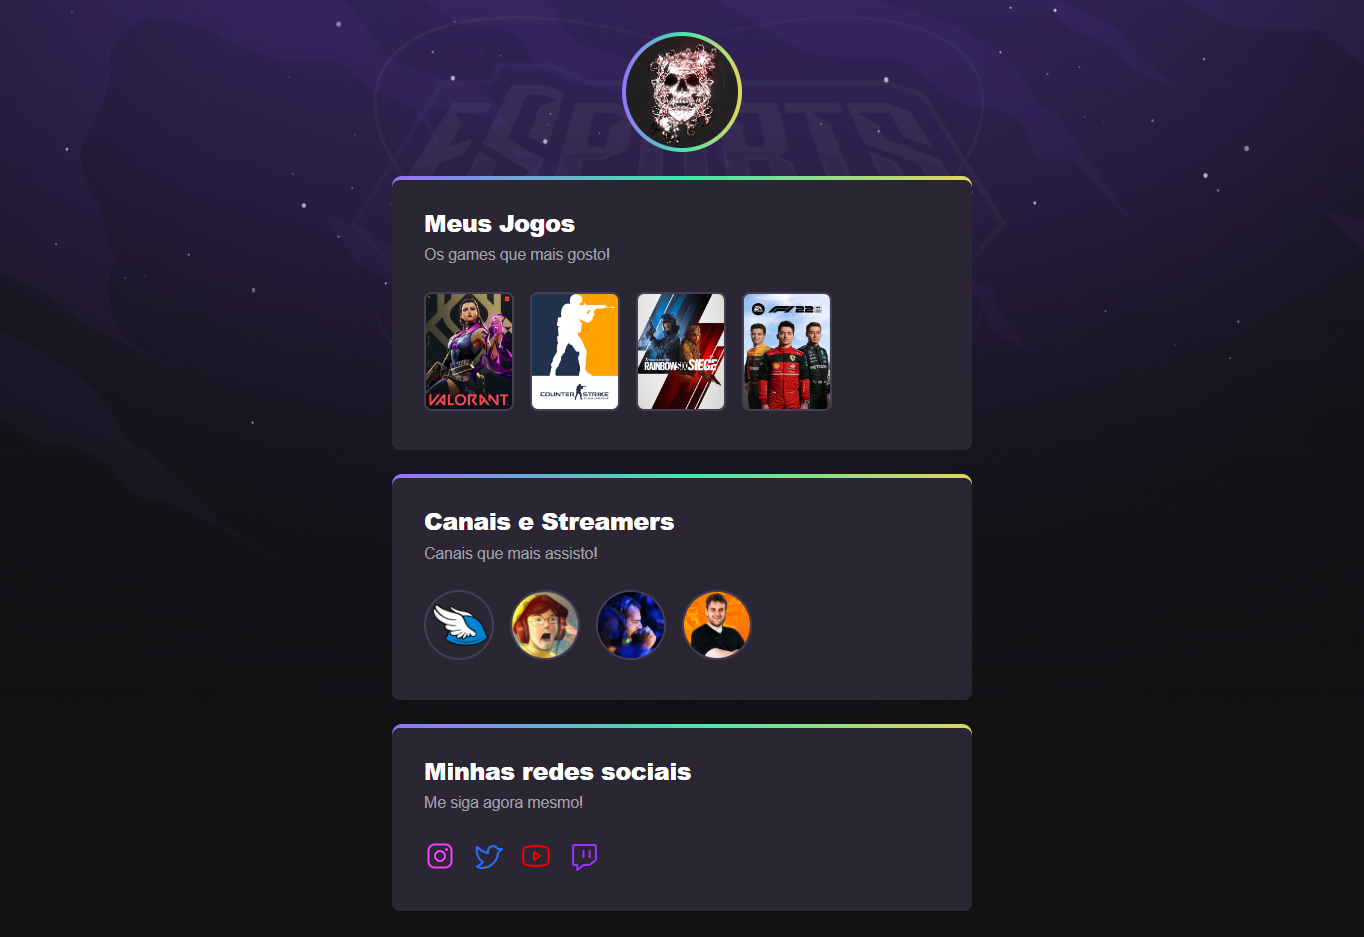
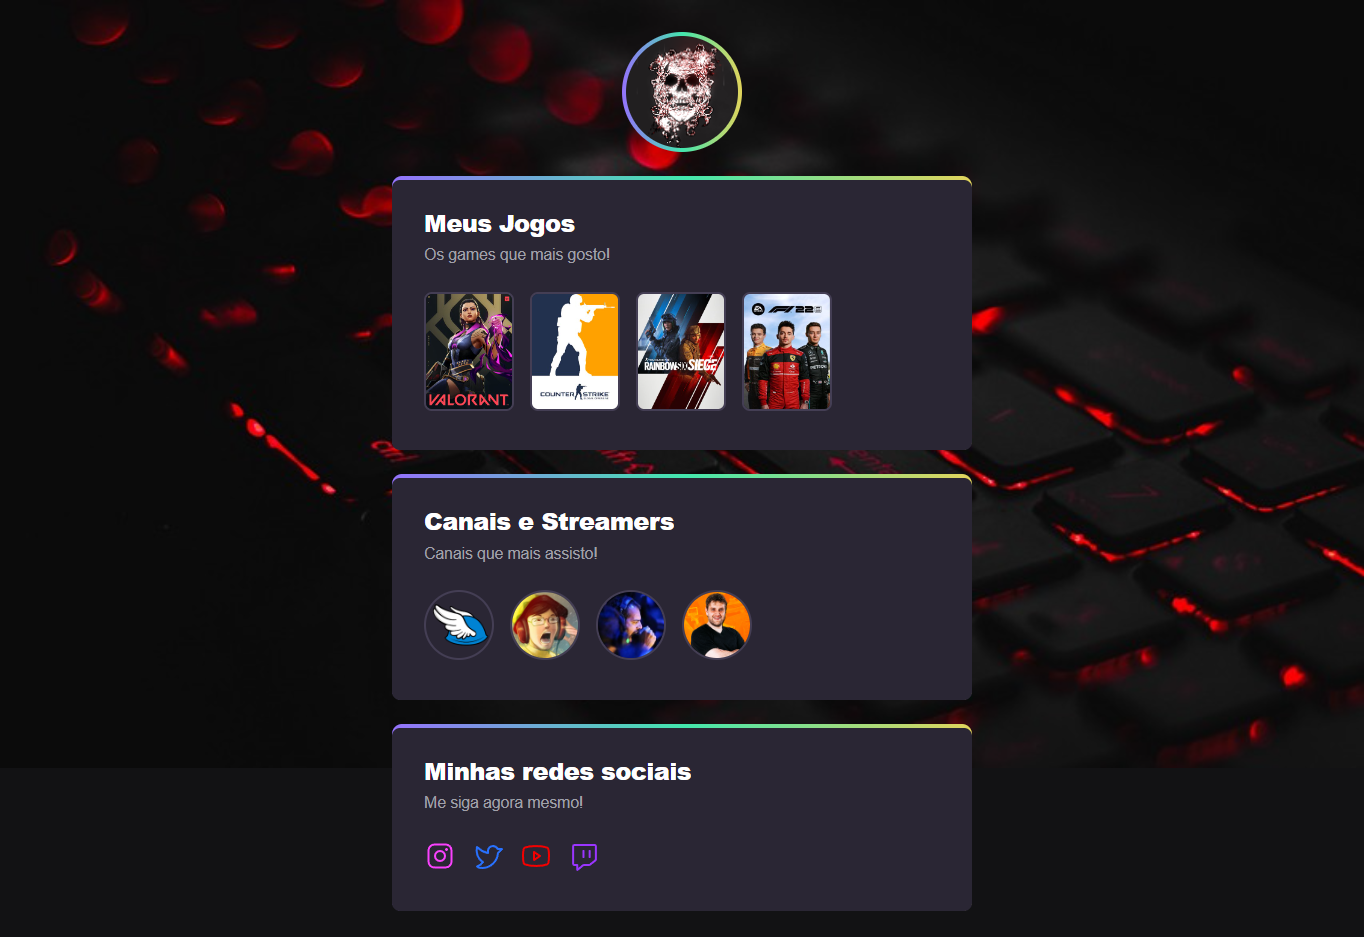
new screen

diff --git a/styles.css b/styles.css
@@ -12,7 +12,7 @@ body {
     background-position: top center;
     background-size: 100% auto;
     background-repeat: no-repeat;
-    background-color: #121214;
+    background-color: #030307;
 }
 
 body * {
